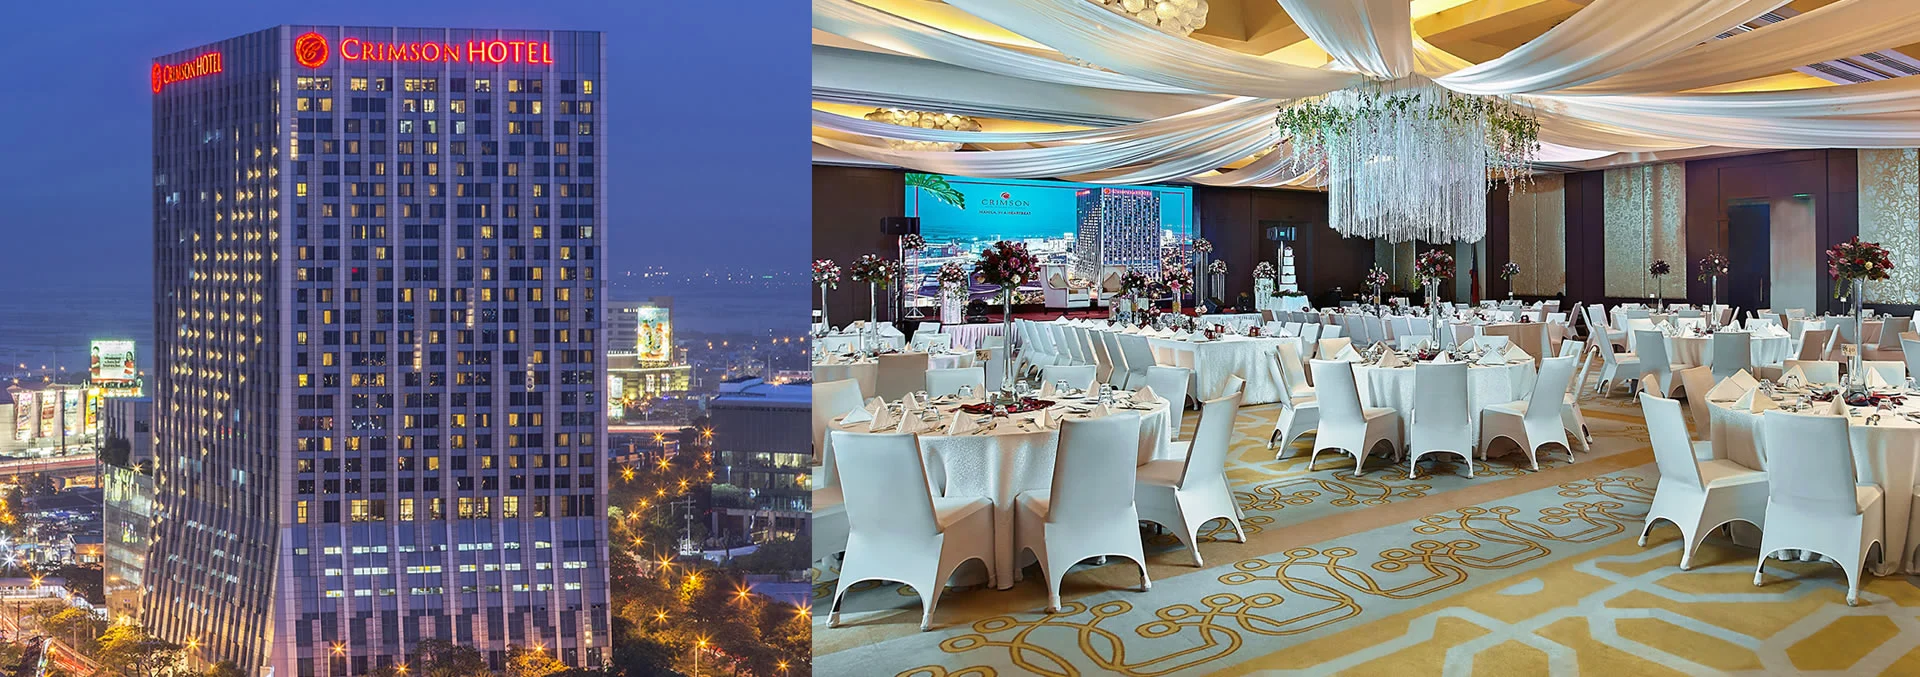
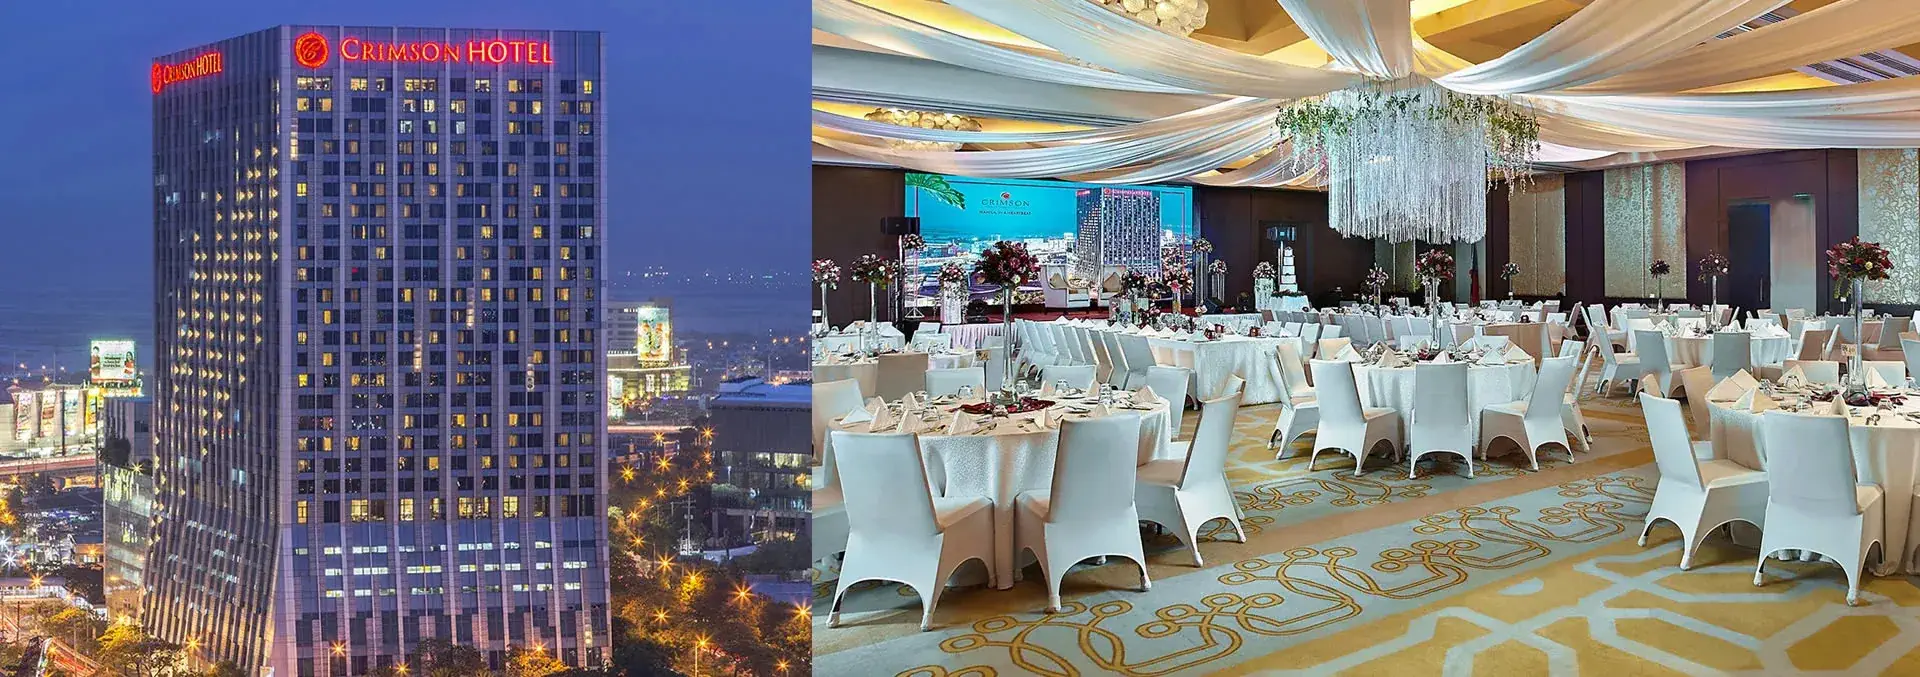
initial commit

diff --git a/src/static-data/services.js b/src/static-data/services.js
@@ -45,7 +45,7 @@ const servicesData = {
             link: 'Booking',
             path: 'https://www.simplebooking.it/ibe/search?hid=3066&lang=EN&tt_claim_key=claim%3A6f430a1fdeb02310959f497578e3ff0297cd60e40763eb87d5718bad9f4e5929%3Aundefined%3A1687150895565',
             image: {
-                path: '/banner_premierclub.jpg',
+                path: '/banner_premierclub.webp',
                 width: 1920,
                 height: 700,
                 alt: 'OUR GUESTROOMS OFFER COMFORT, FAMILIARITY AND HOMELINESS',
@@ -66,7 +66,7 @@ const servicesData = {
             link: 'Request for a quote now',
             path: '/events-meetings',
             image: {
-                path: '/manila-home-layer-4-a.jpg',
+                path: '/manila-home-layer-4-a.webp',
                 width: 1920,
                 height: 700,
                 alt: 'MEETINGS, SEMINARS, CONVENTIONS, DEBUTS, OR WEDDINGS AT CRIMSON',
